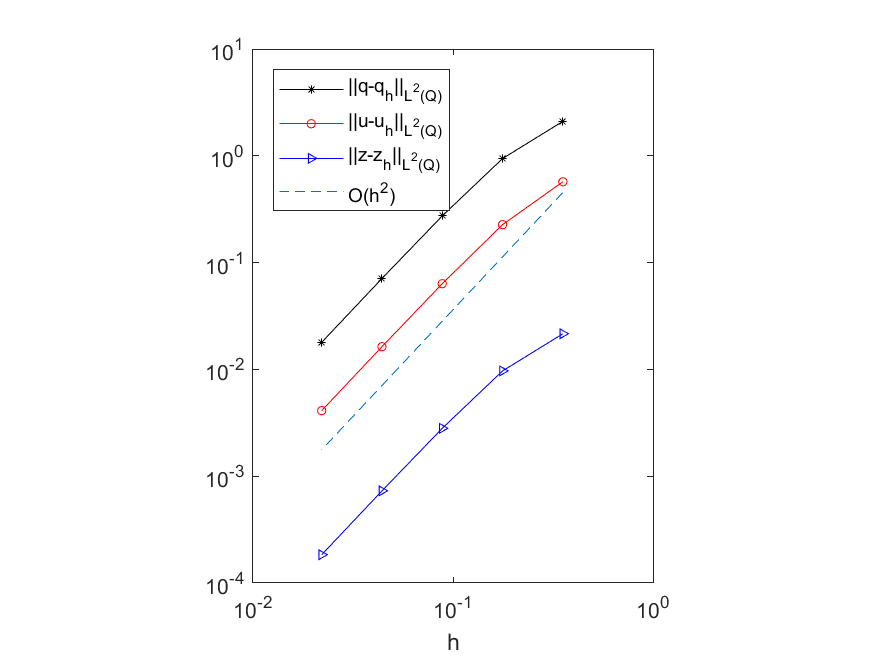
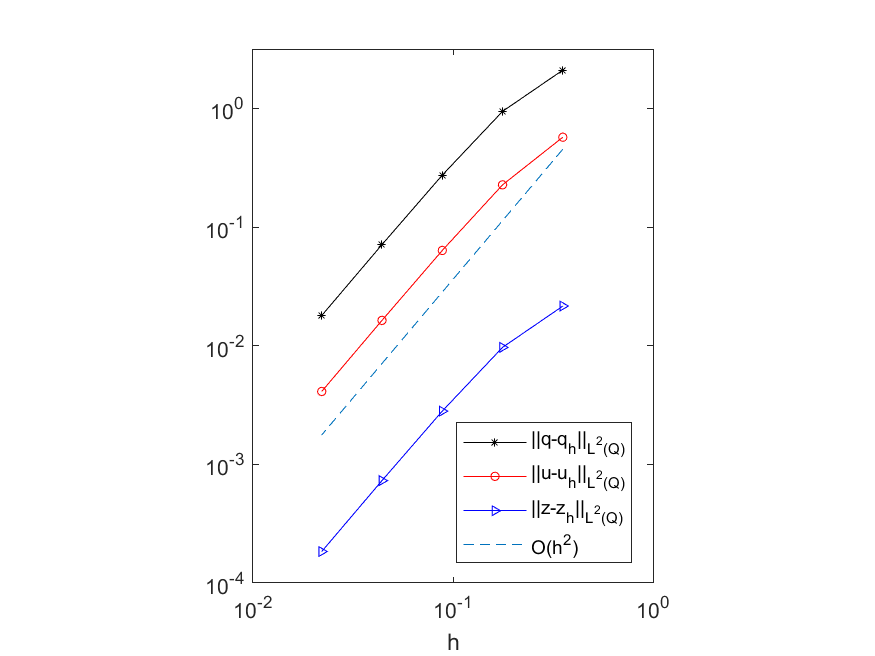
update

diff --git a/freefem++/optimal_control_problem.m b/freefem++/optimal_control_problem.m
@@ -34,6 +34,7 @@ yticklabels({'10^{-4}','10^{-3}','10^{-2}','10^{-1}','10^{0}'})
 box on
 xlabel('\Delta t')
 legend('||q-q_h||_{L^2(Q)}', '||u-u_h||_{L^2(Q)}', '||z-z_h||_{L^2(Q)}', 'O(\Delta t^2)', 'Location', 'northwest');
+%legend boxoff 
 pbaspect([3 4 1])
 saveas(gcf, 'err_t.png');
 
@@ -71,14 +72,15 @@ plot(x_x(1:size(x2,2)), x2, '--');
 
 xticks([-2, -1, 0])
 xticklabels({'10^{-2}','10^{-1}','10^{0}'})
-ylim([-4, 1])
+%ylim([-4, 1])
 %ax = gca;
 %ax.YAxisLocation = 'right';
 yticks([-4, -3, -2, -1, 0, 1])
 yticklabels({'10^{-4}','10^{-3}','10^{-2}','10^{-1}','10^{0}','10^{1}'})
 box on
 xlabel('h')
-legend('||q-q_h||_{L^2(Q)}', '||u-u_h||_{L^2(Q)}', '||z-z_h||_{L^2(Q)}', 'O(h^2)', 'Location', 'northwest');
+legend('||q-q_h||_{L^2(Q)}', '||u-u_h||_{L^2(Q)}', '||z-z_h||_{L^2(Q)}', 'O(h^2)', 'Location', 'southeast');
+%legend boxoff 
 pbaspect([3 4 1])
 saveas(gcf, 'err_x.png');
 
